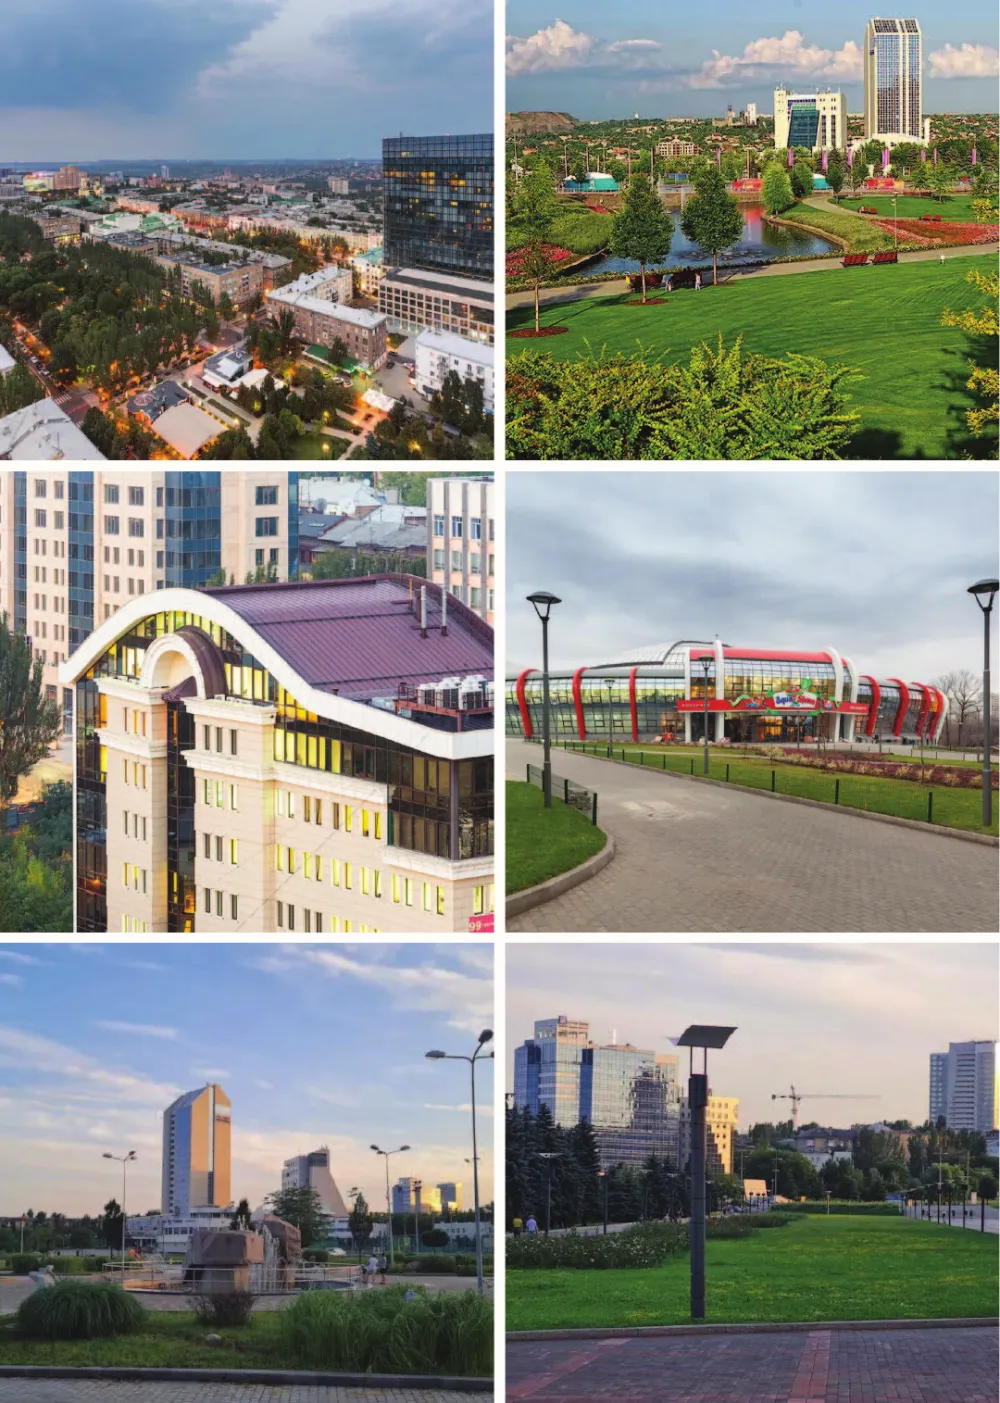
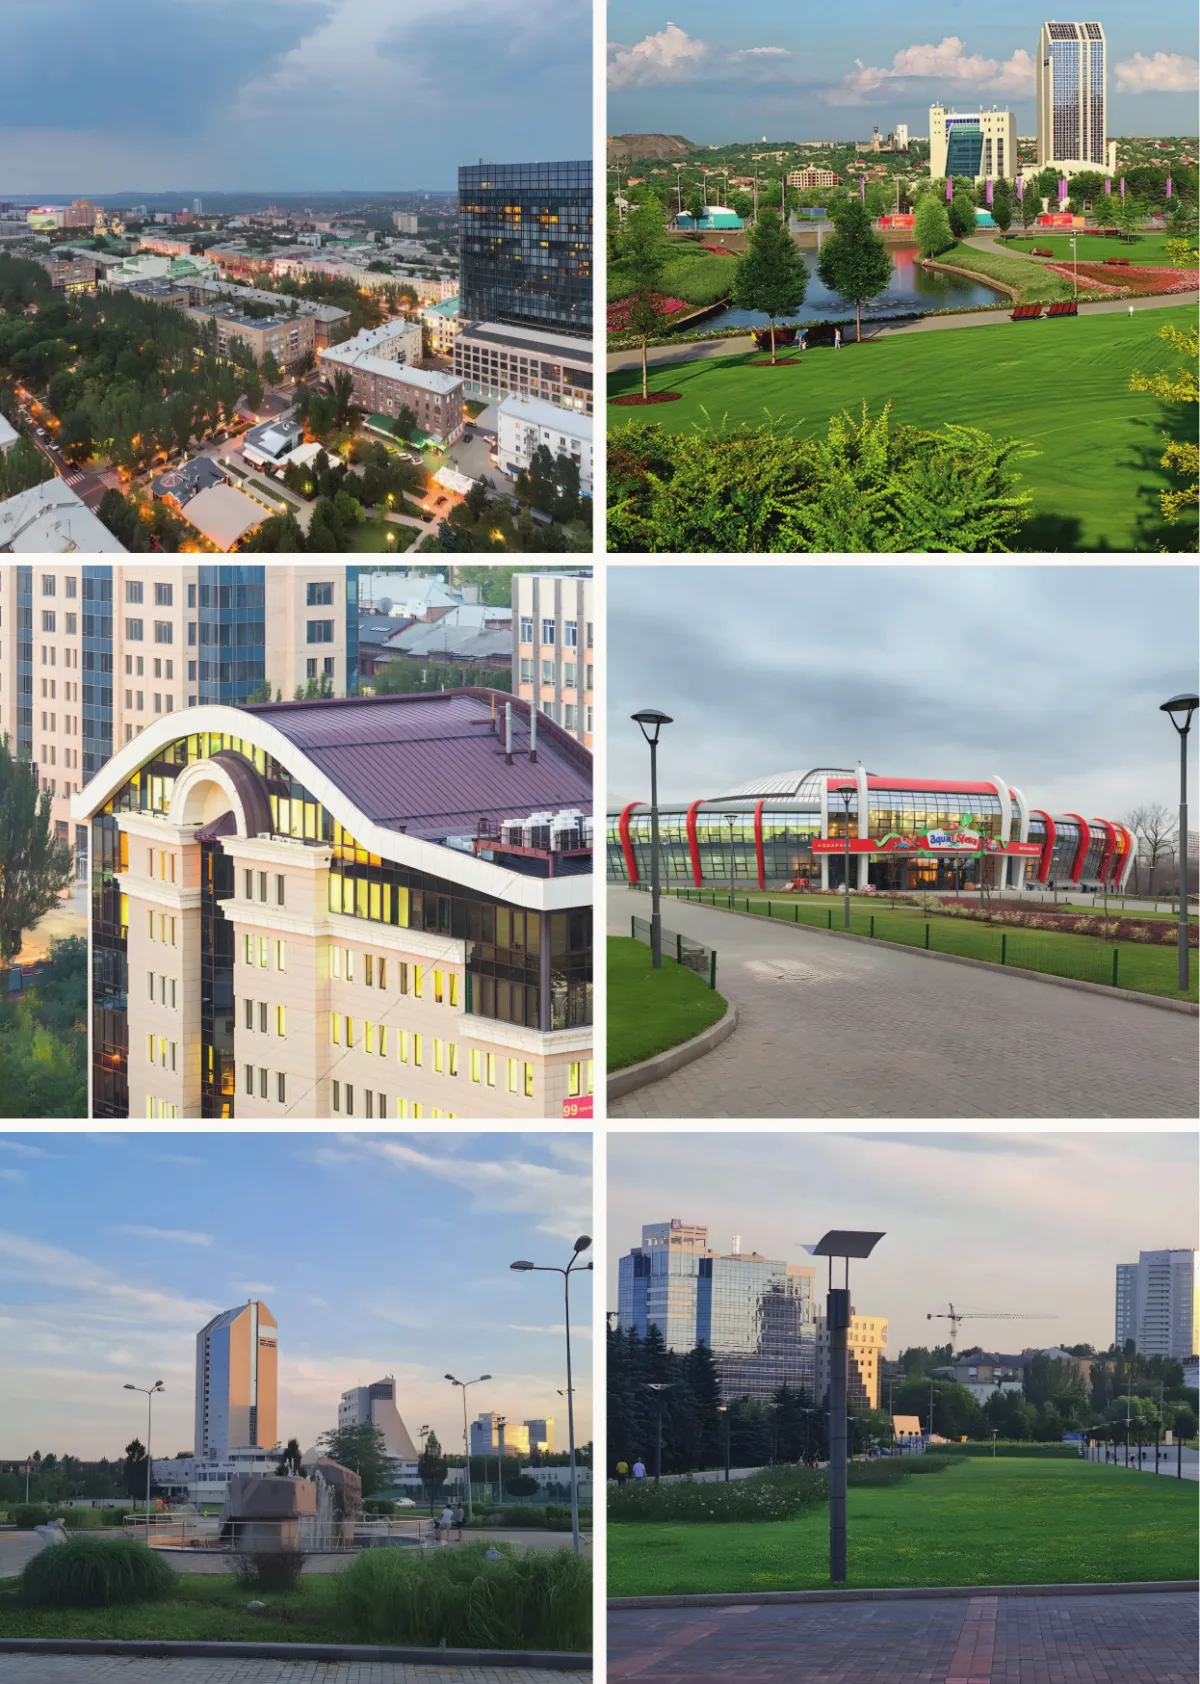
Альбом: сторінки на сайті з нової версії друку (AI-апскейл до 300 ppi)

diff --git a/book.html b/book.html
@@ -85,18 +85,18 @@
     <div class="bk-rule"></div>
     <div class="bk-in">
       <div class="bk-gal bk-pg" id="gal">
-        <button type="button" data-i="0" data-p="02"><img src="/media/book/p/02.webp" width="480" height="674" loading="lazy" decoding="async" alt="Сторінка 2"></button>
-        <button type="button" data-i="1" data-p="03"><img src="/media/book/p/03.webp" width="480" height="674" loading="lazy" decoding="async" alt="Сторінка 3"></button>
-        <button type="button" data-i="2" data-p="05"><img src="/media/book/p/05.webp" width="480" height="674" loading="lazy" decoding="async" alt="Сторінка 5"></button>
-        <button type="button" data-i="3" data-p="08"><img src="/media/book/p/08.webp" width="480" height="674" loading="lazy" decoding="async" alt="Сторінка 8"></button>
-        <button type="button" data-i="4" data-p="11"><img src="/media/book/p/11.webp" width="480" height="674" loading="lazy" decoding="async" alt="Сторінка 11"></button>
-        <button type="button" data-i="5" data-p="14"><img src="/media/book/p/14.webp" width="480" height="674" loading="lazy" decoding="async" alt="Сторінка 14"></button>
-        <button type="button" data-i="6" data-p="17"><img src="/media/book/p/17.webp" width="480" height="674" loading="lazy" decoding="async" alt="Сторінка 17"></button>
-        <button type="button" data-i="7" data-p="20"><img src="/media/book/p/20.webp" width="480" height="674" loading="lazy" decoding="async" alt="Сторінка 20"></button>
-        <button type="button" data-i="8" data-p="23"><img src="/media/book/p/23.webp" width="480" height="674" loading="lazy" decoding="async" alt="Сторінка 23"></button>
-        <button type="button" data-i="9" data-p="26"><img src="/media/book/p/26.webp" width="480" height="674" loading="lazy" decoding="async" alt="Сторінка 26"></button>
-        <button type="button" data-i="10" data-p="29"><img src="/media/book/p/29.webp" width="480" height="674" loading="lazy" decoding="async" alt="Сторінка 29"></button>
-        <button type="button" data-i="11" data-p="33"><img src="/media/book/p/33.webp" width="480" height="674" loading="lazy" decoding="async" alt="Сторінка 33"></button>
+        <button type="button" data-i="0" data-p="02"><img src="/media/book/p/02.webp" width="520" height="730" loading="lazy" decoding="async" alt="Сторінка 2"></button>
+        <button type="button" data-i="1" data-p="03"><img src="/media/book/p/03.webp" width="520" height="730" loading="lazy" decoding="async" alt="Сторінка 3"></button>
+        <button type="button" data-i="2" data-p="05"><img src="/media/book/p/05.webp" width="520" height="730" loading="lazy" decoding="async" alt="Сторінка 5"></button>
+        <button type="button" data-i="3" data-p="08"><img src="/media/book/p/08.webp" width="520" height="730" loading="lazy" decoding="async" alt="Сторінка 8"></button>
+        <button type="button" data-i="4" data-p="11"><img src="/media/book/p/11.webp" width="520" height="730" loading="lazy" decoding="async" alt="Сторінка 11"></button>
+        <button type="button" data-i="5" data-p="14"><img src="/media/book/p/14.webp" width="520" height="730" loading="lazy" decoding="async" alt="Сторінка 14"></button>
+        <button type="button" data-i="6" data-p="17"><img src="/media/book/p/17.webp" width="520" height="730" loading="lazy" decoding="async" alt="Сторінка 17"></button>
+        <button type="button" data-i="7" data-p="20"><img src="/media/book/p/20.webp" width="520" height="730" loading="lazy" decoding="async" alt="Сторінка 20"></button>
+        <button type="button" data-i="8" data-p="23"><img src="/media/book/p/23.webp" width="520" height="730" loading="lazy" decoding="async" alt="Сторінка 23"></button>
+        <button type="button" data-i="9" data-p="26"><img src="/media/book/p/26.webp" width="520" height="730" loading="lazy" decoding="async" alt="Сторінка 26"></button>
+        <button type="button" data-i="10" data-p="29"><img src="/media/book/p/29.webp" width="520" height="730" loading="lazy" decoding="async" alt="Сторінка 29"></button>
+        <button type="button" data-i="11" data-p="33"><img src="/media/book/p/33.webp" width="520" height="730" loading="lazy" decoding="async" alt="Сторінка 33"></button>
       </div>
     </div>
   </section>
